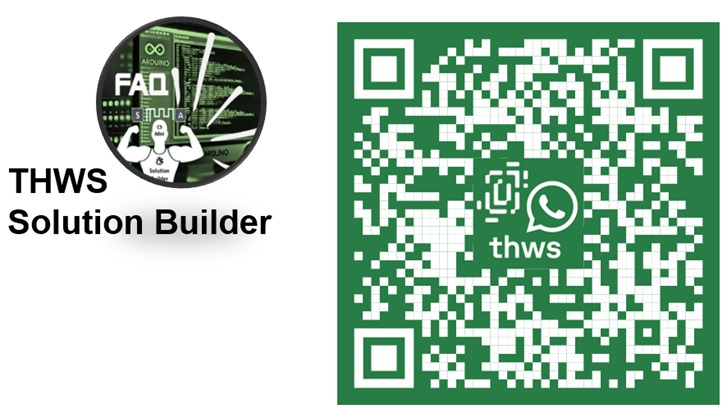
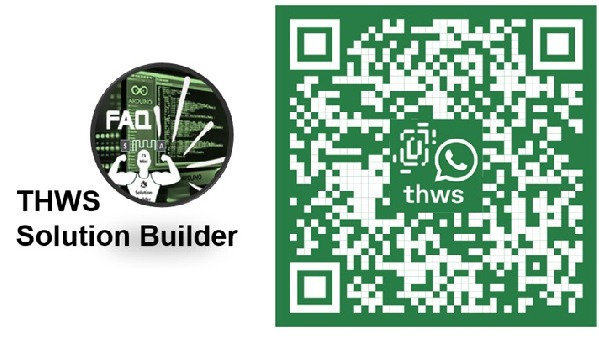
feat: updating thws

diff --git a/pages/home-challenge/thws/index.tsx b/pages/home-challenge/thws/index.tsx
@@ -37,15 +37,63 @@ const Page = () => {
             width="100%"
             height="600px"
           ></iframe>
+          <div style={{ textAlign: 'center' }}>
           <a
             href="https:&#x2F;&#x2F;www.canva.com&#x2F;design&#x2F;DAGTv8E29BE&#x2F;vw2sd2l1Wp4OwFOmFTSw1A&#x2F;view?utm_content=DAGTv8E29BE&amp;utm_campaign=designshare&amp;utm_medium=embeds&amp;utm_source=link"
             target="_blank"
             rel="noopener noreferrer"
             className="mb-6"
+            
           >
             <u>THWS Home Challenge</u>
           </a>{' '}
+          
           by carenuity
+          </div>
+          <div className='row'>
+            <div className='col-lg-3 mb-4' ></div>
+  <div className='col-lg-2 mb-4' >
+                {/* eslint-disable-next-line @next/next/no-img-element */}
+                <img
+                  src="/img/content/press-materials-for-thws/whatsapp2.jpeg"
+                  className="mt-1-9 wow fadeInUp img-fluid mb-2"
+                  data-wow-delay="100ms"
+                  alt="..."
+                  style={{
+                    visibility: 'visible',
+                    animationDelay: '100ms',
+                    animationName: 'fadeIn',
+                  }}
+                />
+                <p style={{ textAlign: 'center' }}>
+               <strong>Scan</strong>  to join whatsapp group 
+                </p>
+              </div>
+              <div className='col-lg-4 mb-4' >
+                {/* eslint-disable-next-line @next/next/no-img-element */}
+                <img
+                  src="/img/content/press-materials-for-thws/register.jpeg"
+                  className="mt-1-9 wow fadeInUp img-fluid mb-3"
+                  data-wow-delay="100ms"
+                  alt="..."
+                  style={{
+                    visibility: 'visible',
+                    animationDelay: '100ms',
+                    animationName: 'fadeIn',
+                  }}
+                />
+                 <p style={{ textAlign: 'center' }}>
+                <Link
+              href={'/home-challenge/register/thws'}
+              className={'btn btn-lg btn-success rounded-pill'}
+            >
+              <span className="small">Register </span>
+            </Link>
+            <p>for the home challenge towards AI</p>
+            </p>
+              </div>
+          </div>
+        
           <p style={{ textAlign: 'center' }}>
             {/* {!isMobile && ( */}
             <Link

diff --git a/pages/home-challenge/thws/press.tsx b/pages/home-challenge/thws/press.tsx
@@ -594,7 +594,7 @@ const Page = ({ isMobile }: { isMobile: boolean }) => {
                   </>
                 )}
               </h4>
-              <div>
+              <div className='mb-4' style={{textAlign:"center"}}>
                 {/* eslint-disable-next-line @next/next/no-img-element */}
                 <img
                   src="/img/content/press-materials-for-thws/whatsapp.jpeg"
@@ -608,31 +608,23 @@ const Page = ({ isMobile }: { isMobile: boolean }) => {
                   }}
                 />
               </div>
-    https://www.thws.de/service/news-presse/pressemeldungen/thema/praxisnah-im-studium-bewegungsmelder-selbst-bauen/
-              <div className="col-lg-3 ">
-                <p>
-                  {!isMobile && (
-                    <Link
-                      href={'/home-challenge/thws'}
-                      className={'btn btn-lg btn-success rounded-pill'}
-                    >
-                      <span className="small">Back to startpage</span>
-                    </Link>
-                  )}
 
-                  {isMobile && (
-                    <a
-                      href={'/home-challenge/thws'}
-                      className={'btn btn-lg btn-success rounded-pill'}
-                    >
-                      <span className="small">
-                        Back to startpage{' '}
-                        {/* <i className='fa-solid fa-arrow-right ps-1'></i>display-10 */}
-                      </span>
-                    </a>
-                  )}
-                </p>
-              </div>
+              <div style={{textAlign:"center"}} className='mb-4'>
+              <a href='https://www.thws.de/service/news-presse/pressemeldungen/thema/praxisnah-im-studium-bewegungsmelder-selbst-bauen/ ' 
+              target='blank'>   <u>Würzburg-Schweinfurt University of Applied Sciences</u>
+                </a>
+                </div>
+
+                  <p style={{ textAlign: 'center' }}>
+                 <Link
+              href={'/home-challenge/thws'}
+              className={'btn btn-lg btn-success rounded-pill'}
+            >
+              <span className="small">Back to startpage</span>
+            </Link>
+            </p>
+
+               
             </div>
           </div>
         </div>

diff --git a/pages/product/sq-panel/launch-page.tsx b/pages/product/sq-panel/launch-page.tsx
@@ -446,12 +446,16 @@ const Page = ({ isMobile }: { isMobile: boolean }) => {
           <div id="subscribe" className=" mb-4" style={{ textAlign: 'center' }}>
             <h3>
               {state === 'en' && (
-                <>Subscribe to the waiting list for early bird discount!</>
+                <>
+                Subscribe to our Newsletter
+                {/* Subscribe to the waiting list for early bird discount! */}
+                </>
               )}
               {state === 'de' && (
                 <>
-                  Tragen Sie sich in die Warteliste ein und sichern Sie sich den
-                  Frühbucherrabatt!
+                Abonnieren Sie unseren Newsletter
+                  {/* Tragen Sie sich in die Warteliste ein und sichern Sie sich den
+                  Frühbucherrabatt! */}
                 </>
               )}
             </h3>

diff --git a/components/dynamic/Newsletter.tsx b/components/dynamic/Newsletter.tsx
@@ -22,7 +22,8 @@ const Newsletter = (/*{ email }: { email: string }*/) => {
           )}
         </p>
         <Link
-          href={'/sq-panel-plus#subscribe'}
+          href={'/product/sq-panel/launch-page'}
+          // href={'/sq-panel-plus#subscribe'}
           // href={`mailto:${email}?subject=${encodeURIComponent(
           //   'Subscription to Carenuity Newsletter'
           // )}&body=${encodeURIComponent(
